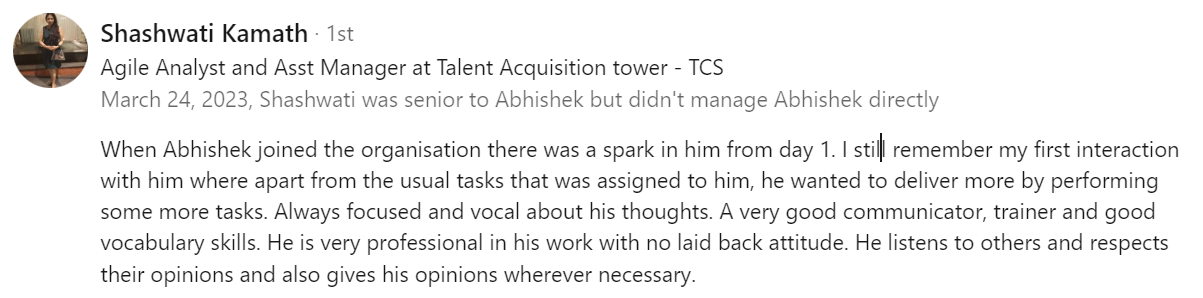
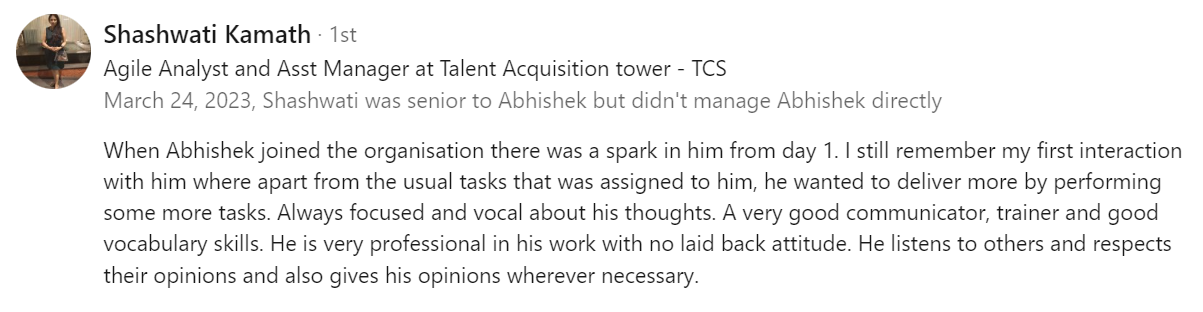
Testimonial image changed and resized

Changed region(s): [[0.0615, 0.453, 0.9842, 0.9664], [0.0, 0.0302, 0.7997, 0.3624]]

diff --git a/index.html b/index.html
@@ -179,7 +179,7 @@
         <div id="testimonials" class="form-1 bg-gray">
             <div class="container">
                 <h2>People I've worked with say this about me...</h2>
-                <img class="testimonial borderRadius10" src="/images/Testimonial-1.png" alt="Testimonial-1">
+                <img id="testimonial-1" class="testimonial borderRadius10" src="/images/Testimonial-1.png" alt="Testimonial-1">
             </div>
         </div>
     <!-- end of My Testimonials -->

diff --git a/css/styles.css b/css/styles.css
@@ -116,6 +116,10 @@ h6 {
 	height: auto;
 }
 
+#testimonial-1 {
+	width: 50rem;
+}
+
 .borderRadius10 {
 	border-radius: 10px;
 }
